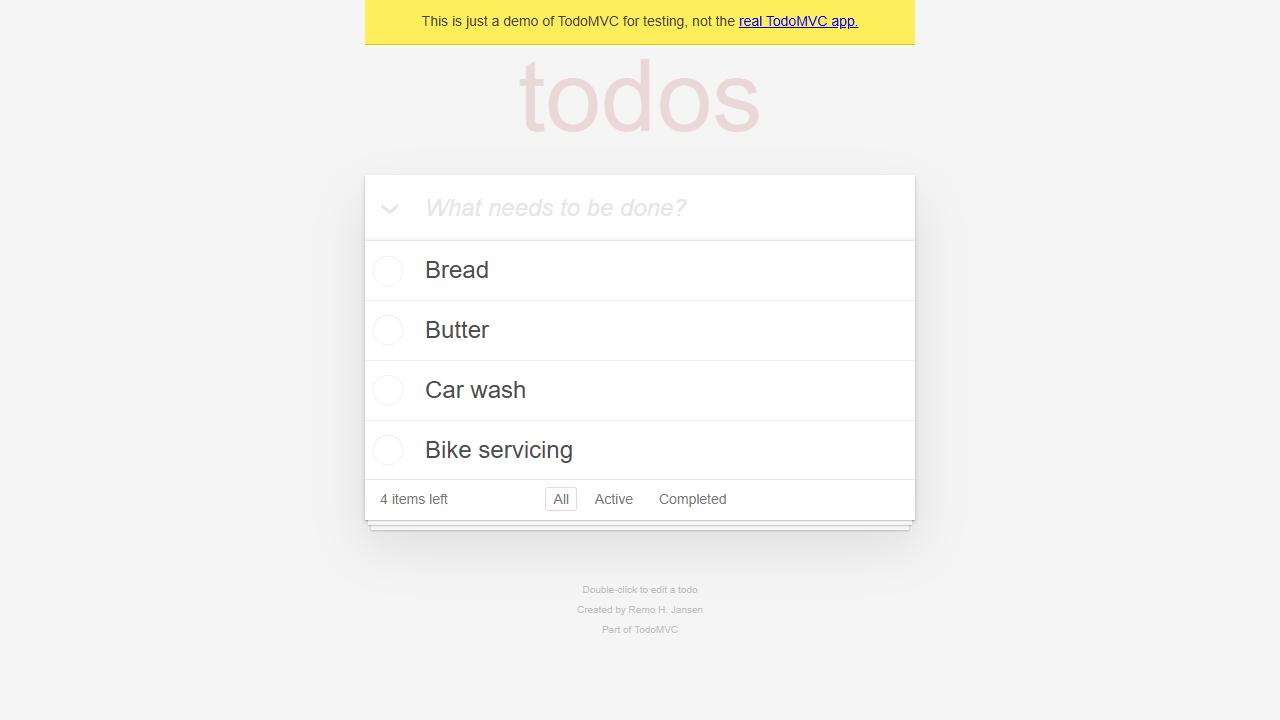
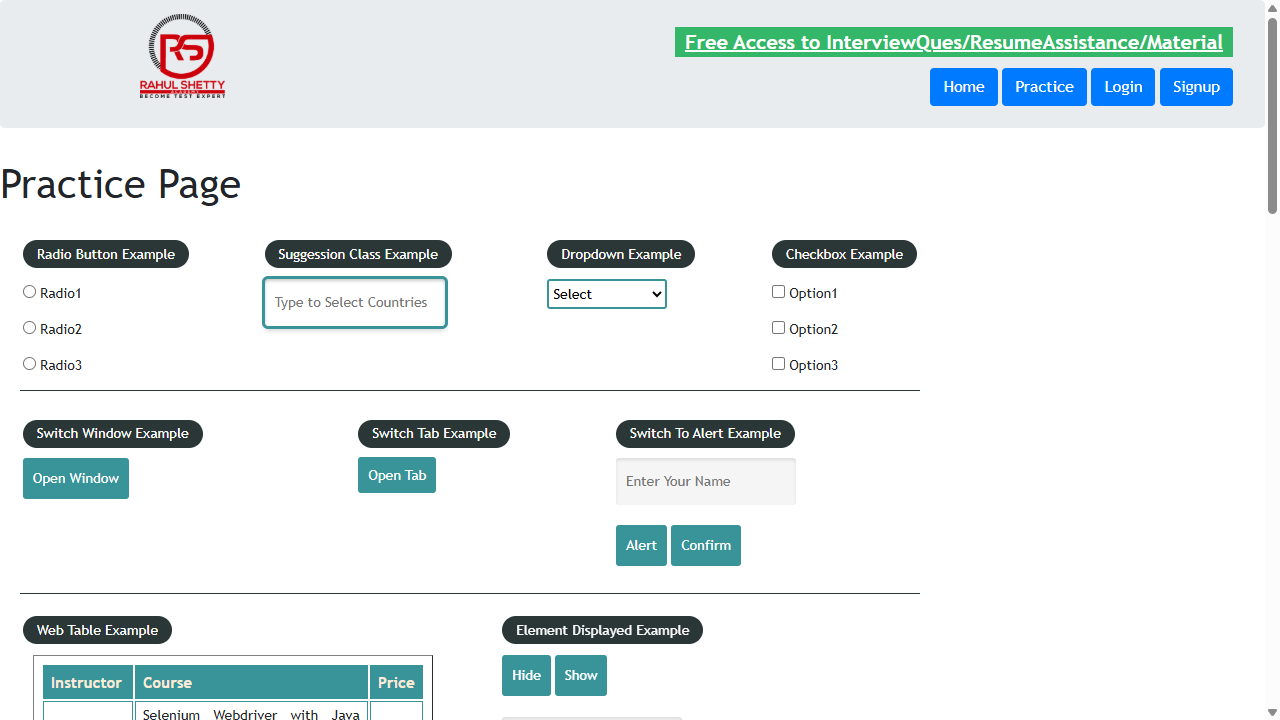
Mouse hover

diff --git a/test/list.spe.ts b/test/list.spe.ts
@@ -1,7 +1,7 @@
-import {test, Browser, Page, chromium, BrowserContext} from "@playwright/test";
+import {test, Page, chromium, BrowserContext, expect} from "@playwright/test";
 
 test('working list', async ({}) => {
-    const browser:BrowserContext = await chromium.launchPersistentContext('',{headless:false});
+    const browser:BrowserContext = await chromium.launchPersistentContext('',{headless:true});
     
     //getting the list of pages or tabs in the browser
     const pages = browser.pages();
@@ -14,6 +14,8 @@ test('working list', async ({}) => {
     await page.keyboard.press('Enter'); //Enter key is used to perform the Enter keyboard action.
     await addtodo.fill('Butter');
     await page.keyboard.press('Enter');
+    await addtodo.fill('Carter');
+    await page.keyboard.press('Enter');
     await addtodo.fill('Milk'); //fill is used to fill the input field with the given text.
     await page.keyboard.press('Enter');
     await addtodo.fill('Car wash');
@@ -23,6 +25,11 @@ test('working list', async ({}) => {
     
     const list = page.getByTestId('todo-item');
     const name = list.filter({hasText:'Milk'});
-
+    // console.log(await name.count());
+    const pname = await name.textContent();
+    // console.log(pname);
+    console.log(expect(pname).toBe('Milk')); //gives UNDEFINED as result if True else gives error
+    // console.log(booot);
+    console.log(pname === 'Milk'); //performs boolean operation gives true or false
 
 });

diff --git a/test/mouseHover.spec.ts b/test/mouseHover.spec.ts
@@ -1,0 +1,29 @@
+import {test, Page, Browser, chromium, BrowserContext} from '@playwright/test';
+
+test('mouse Hover', async({}) => {
+    // const browser:Browser = await chromium.launch({headless:true});
+    // const page:Page = await browser.newPage();
+
+    const browser:Browser = await chromium.launch({headless:false});
+    const bcon:BrowserContext = await browser.newContext(); //newContext is used to create a new browser context.
+    const page1 = await bcon.newPage(); //newPage is used to create a new page.
+
+    await page1.goto('https://rahulshettyacademy.com/AutomationPractice/');
+    const btn = page1.getByRole('button',{name:'Mouse Hover'});
+    await btn.hover(); //hover on button
+    await page1.waitForTimeout(1000);
+    const option = page1.getByRole('link',{name: 'Top'});
+    await option.click();
+    const txtbx = page1.getByPlaceholder('Type to Select Countries');
+    const box = await txtbx.boundingBox();
+    console.log(box);
+    const {x,y,height, width} = box as {x:number,y:number,height:number,width:number};
+    console.log('x:',x);
+    console.log('y:',y);
+    console.log('height:',height);
+    console.log('width:',width);
+    await page1.mouse.click(x+width/2,y+height/2,{button:'right'});
+    await page1.screenshot({path:'screenshot_1.png'});
+    await page1.waitForTimeout(10000);
+    await browser.close();
+});
